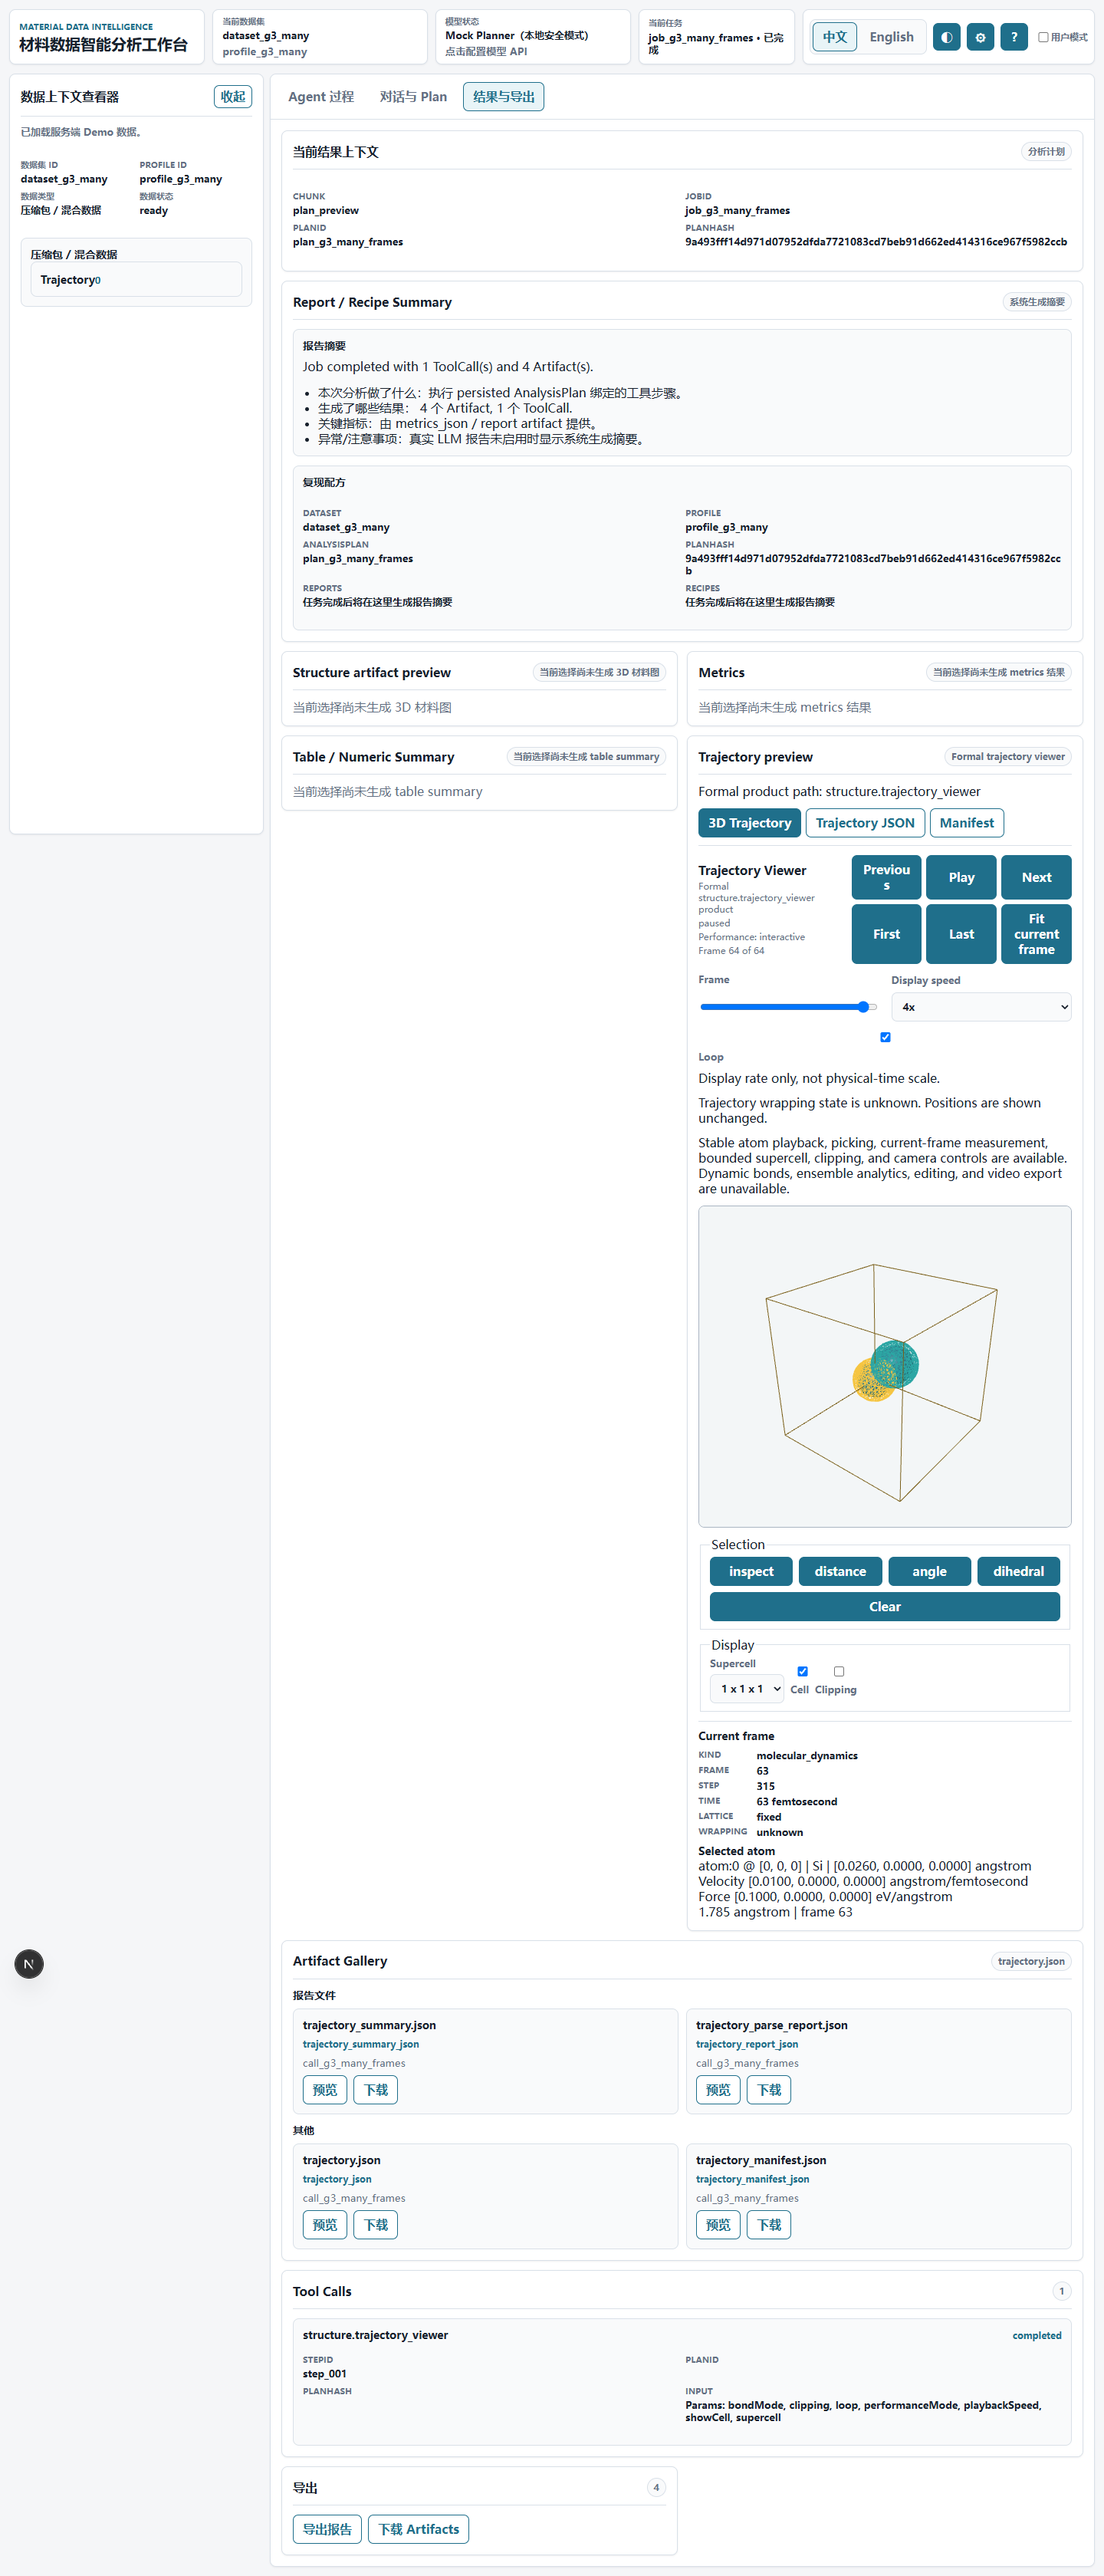
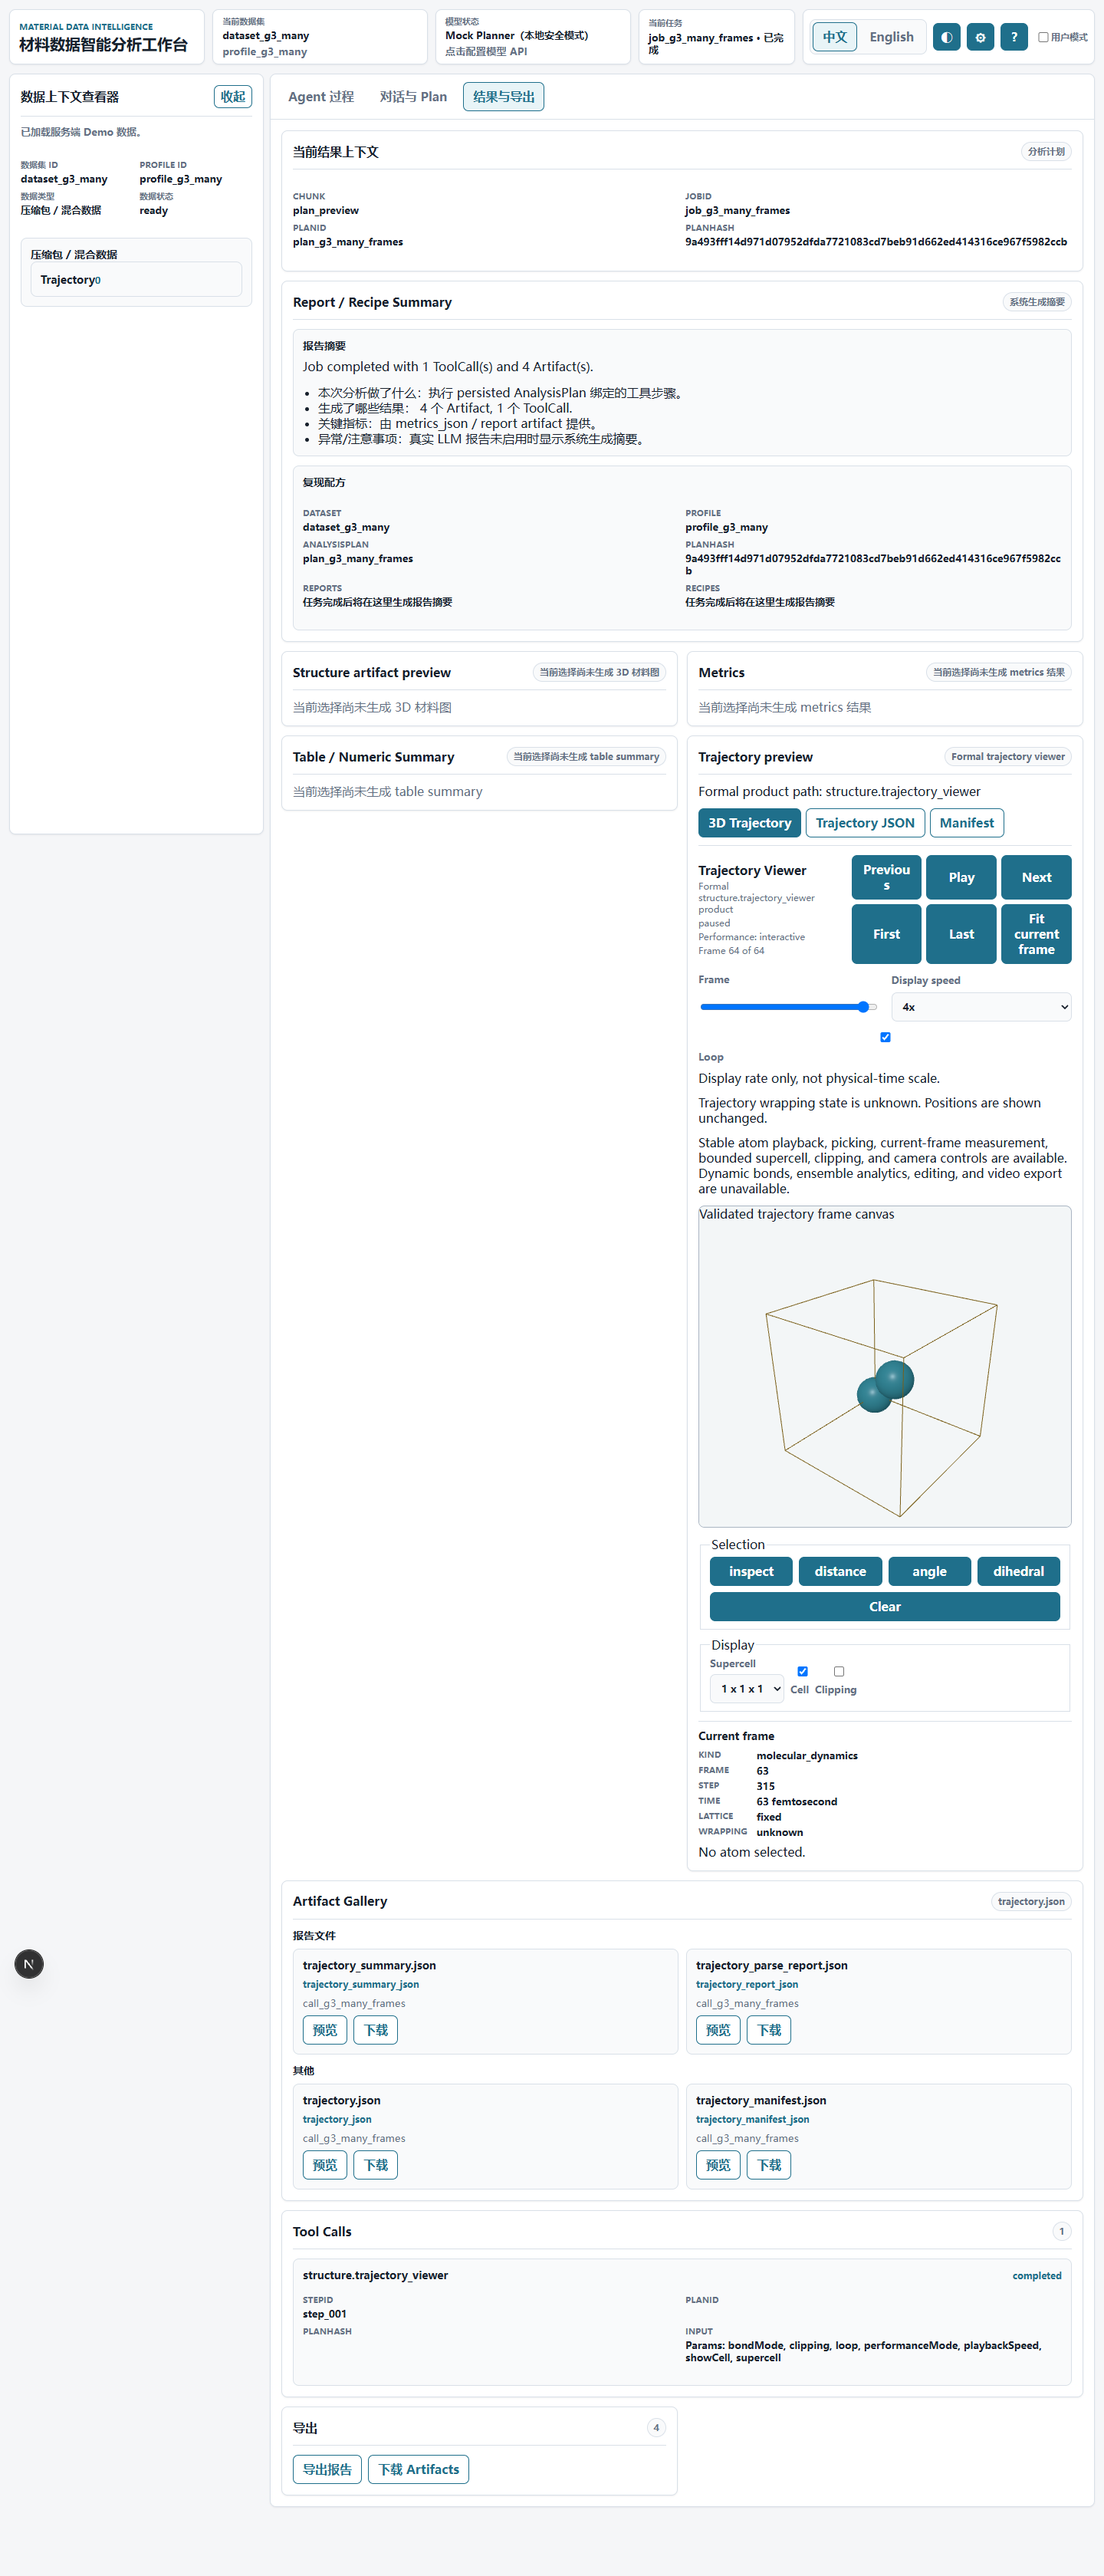
Normalize trajectory evidence hashes across platforms

diff --git a/scripts/generate_phase10g3_trajectory_product_evidence.py b/scripts/generate_phase10g3_trajectory_product_evidence.py
@@ -389,7 +389,11 @@ def _normalize_ids(
 
 
 def _write(name: str, payload: Any) -> None:
-    (EVIDENCE / name).write_text(json.dumps(payload, indent=2, sort_keys=True, ensure_ascii=True) + "\n", encoding="utf-8")
+    (EVIDENCE / name).write_text(
+        json.dumps(payload, indent=2, sort_keys=True, ensure_ascii=True) + "\n",
+        encoding="utf-8",
+        newline="\n",
+    )
 
 
 if __name__ == "__main__":

diff --git a/docs/phase10g/phase10g3_trajectory_evidence.md b/docs/phase10g/phase10g3_trajectory_evidence.md
@@ -8,6 +8,8 @@ Evidence is stored in `docs/phase10g/evidence/phase10g3_trajectory_performance_b
 
 The capture boundary is explicit: backend artifact generation is real in-memory persisted runtime execution; browser HTTP is a local replay of those captures. The separate service-backed CI test covers PostgreSQL/Redis/MinIO persistence.
 
+The hash inventory normalizes JSON and Markdown line endings to LF before hashing so Windows and Linux checkouts verify the same text content. Binary screenshots remain raw-byte SHA-256 evidence.
+
 Markers:
 
 - `TRAJECTORY_FORMAL_API_EVIDENCE_PASS`
